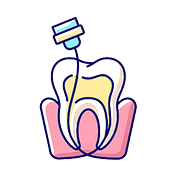
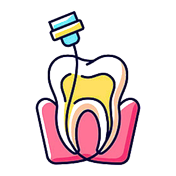
Menos texto, quiz maior e icone de endodontia novo

Changed region(s): [[0.1989, 0.0568, 0.8239, 0.9375]]

diff --git a/index.html b/index.html
@@ -196,8 +196,7 @@
     <h1>Nem todo dente comprometido precisa ser extraído.</h1>
     <p class="hero__sub">
       Consultório do Dr. Paulo Coelho e da Dra. Mariana Caldas, em Itabira.
-      Periodontia, implantes, endodontia, ortodontia e harmonização orofacial —
-      com o mesmo time do planejamento até a execução.
+      Periodontia, implantes, endodontia, ortodontia e harmonização orofacial.
     </p>
     <div class="hero__acoes">
       <a class="btn btn--claro" href="https://wa.me/553138340002?text=Ol%C3%A1%21%20Vim%20pelo%20site%20e%20gostaria%20de%20agendar%20uma%20avalia%C3%A7%C3%A3o." target="_blank" rel="noopener">
@@ -241,8 +240,7 @@
       <h2>Um consultório, várias especialidades</h2>
       <p class="chamada">
         Periodontia, ortodontia, implantes, endodontia, atendimento infantil e
-        harmonização orofacial no mesmo endereço. Se o seu tratamento passar
-        por mais de uma área, quem cuida de você continua sendo a mesma equipe.
+        harmonização orofacial.
       </p>
     </div>
 
@@ -469,12 +467,8 @@
   <div class="env convic">
     <div class="convic__foto" role="img" aria-label="Dra. Mariana Caldas e Dr. Paulo Coelho"></div>
     <div>
-      <span class="olho">A forma de trabalhar</span>
-      <h2>Duas ideias que orientam o tratamento</h2>
-      <p class="chamada">
-        Uma de cada especialidade. Juntas, elas explicam por que o plano de
-        tratamento daqui costuma começar por uma pergunta diferente.
-      </p>
+      <span class="olho">Em duas frases</span>
+      <h2>Como eles pensam o tratamento</h2>
 
       <div class="convic__lista">
         <article class="convic__item">
@@ -550,9 +544,8 @@
       </p>
       <hr class="qq__linha">
       <p class="qq__texto qq__texto--nota">
-        <strong>Nada aqui é diagnóstico.</strong> Só o exame clínico e a
-        radiografia dizem o que está acontecendo de verdade. Isto é só um jeito
-        de organizar o que você já está sentindo antes de conversar.
+        <strong>Nada aqui é diagnóstico.</strong> Só o exame clínico diz o que
+        está acontecendo de verdade.
       </p>
     </div>
 
@@ -597,6 +590,42 @@
           <input type="checkbox" value="Aperto ou rango os dentes, principalmente à noite">
           <span class="qq__marca" aria-hidden="true"></span>
           <span class="qq__label">Aperto ou rango os dentes, principalmente à noite</span>
+        </label>
+
+        <label class="qq__opcao">
+          <input type="checkbox" value="Tenho dor ou sensibilidade em algum dente">
+          <span class="qq__marca" aria-hidden="true"></span>
+          <span class="qq__label">Tenho dor ou sensibilidade em algum dente</span>
+        </label>
+
+        <label class="qq__opcao">
+          <input type="checkbox" value="Quebrou um dente ou caiu uma restauração">
+          <span class="qq__marca" aria-hidden="true"></span>
+          <span class="qq__label">Quebrou um dente ou caiu uma restauração</span>
+        </label>
+
+        <label class="qq__opcao">
+          <input type="checkbox" value="Não gosto de como meu sorriso aparece nas fotos">
+          <span class="qq__marca" aria-hidden="true"></span>
+          <span class="qq__label">Não gosto de como meu sorriso aparece nas fotos</span>
+        </label>
+
+        <label class="qq__opcao">
+          <input type="checkbox" value="Uso ou já usei aparelho e os dentes voltaram a se mexer">
+          <span class="qq__marca" aria-hidden="true"></span>
+          <span class="qq__label">Uso ou já usei aparelho e os dentes voltaram a se mexer</span>
+        </label>
+
+        <label class="qq__opcao">
+          <input type="checkbox" value="Queria saber sobre harmonização orofacial">
+          <span class="qq__marca" aria-hidden="true"></span>
+          <span class="qq__label">Queria saber sobre harmonização orofacial</span>
+        </label>
+
+        <label class="qq__opcao">
+          <input type="checkbox" value="Tenho receio de ir ao dentista e vou adiando">
+          <span class="qq__marca" aria-hidden="true"></span>
+          <span class="qq__label">Tenho receio de ir ao dentista e vou adiando</span>
         </label>
 
         <label class="qq__opcao">

diff --git a/assets/css/style.css b/assets/css/style.css
@@ -563,7 +563,12 @@ h3{font-size:1.22rem}
   opacity:1;
 }
 @media (max-width:760px){
-  .insta__leque{--passo:58px;--card:142px;--dyf:.5px;height:250px;margin:2rem 0 .5rem}
+  /* --passo é a distância entre os cards. No celular eles se cobrem quase
+     inteiros; um passo um pouco maior deixa ver o conteúdo de cada um sem
+     desmanchar o leque. Cuidado: passo grande demais empurra os das pontas
+     pra fora e reaparece rolagem horizontal — conferir a sonda de 360px
+     depois de mexer aqui. */
+  .insta__leque{--passo:70px;--card:138px;--dyf:.5px;height:250px;margin:2rem 0 .5rem}
   .insta__item{border-radius:13px;box-shadow:0 8px 20px rgba(18,53,40,.26)}
   /* sem hover em toque: levantar card com o dedo em cima não acontece */
   .insta__item:hover{
@@ -571,7 +576,7 @@ h3{font-size:1.22rem}
     box-shadow:0 8px 20px rgba(18,53,40,.26);
   }
 }
-@media (max-width:400px){.insta__leque{--passo:52px;--card:126px;height:225px}}
+@media (max-width:400px){.insta__leque{--passo:62px;--card:122px;height:225px}}
 
 /* ====================== quiz de autoqualificação ====================== */
 /* Adaptado de templates/componentes/quiz-qualificacao.html.
